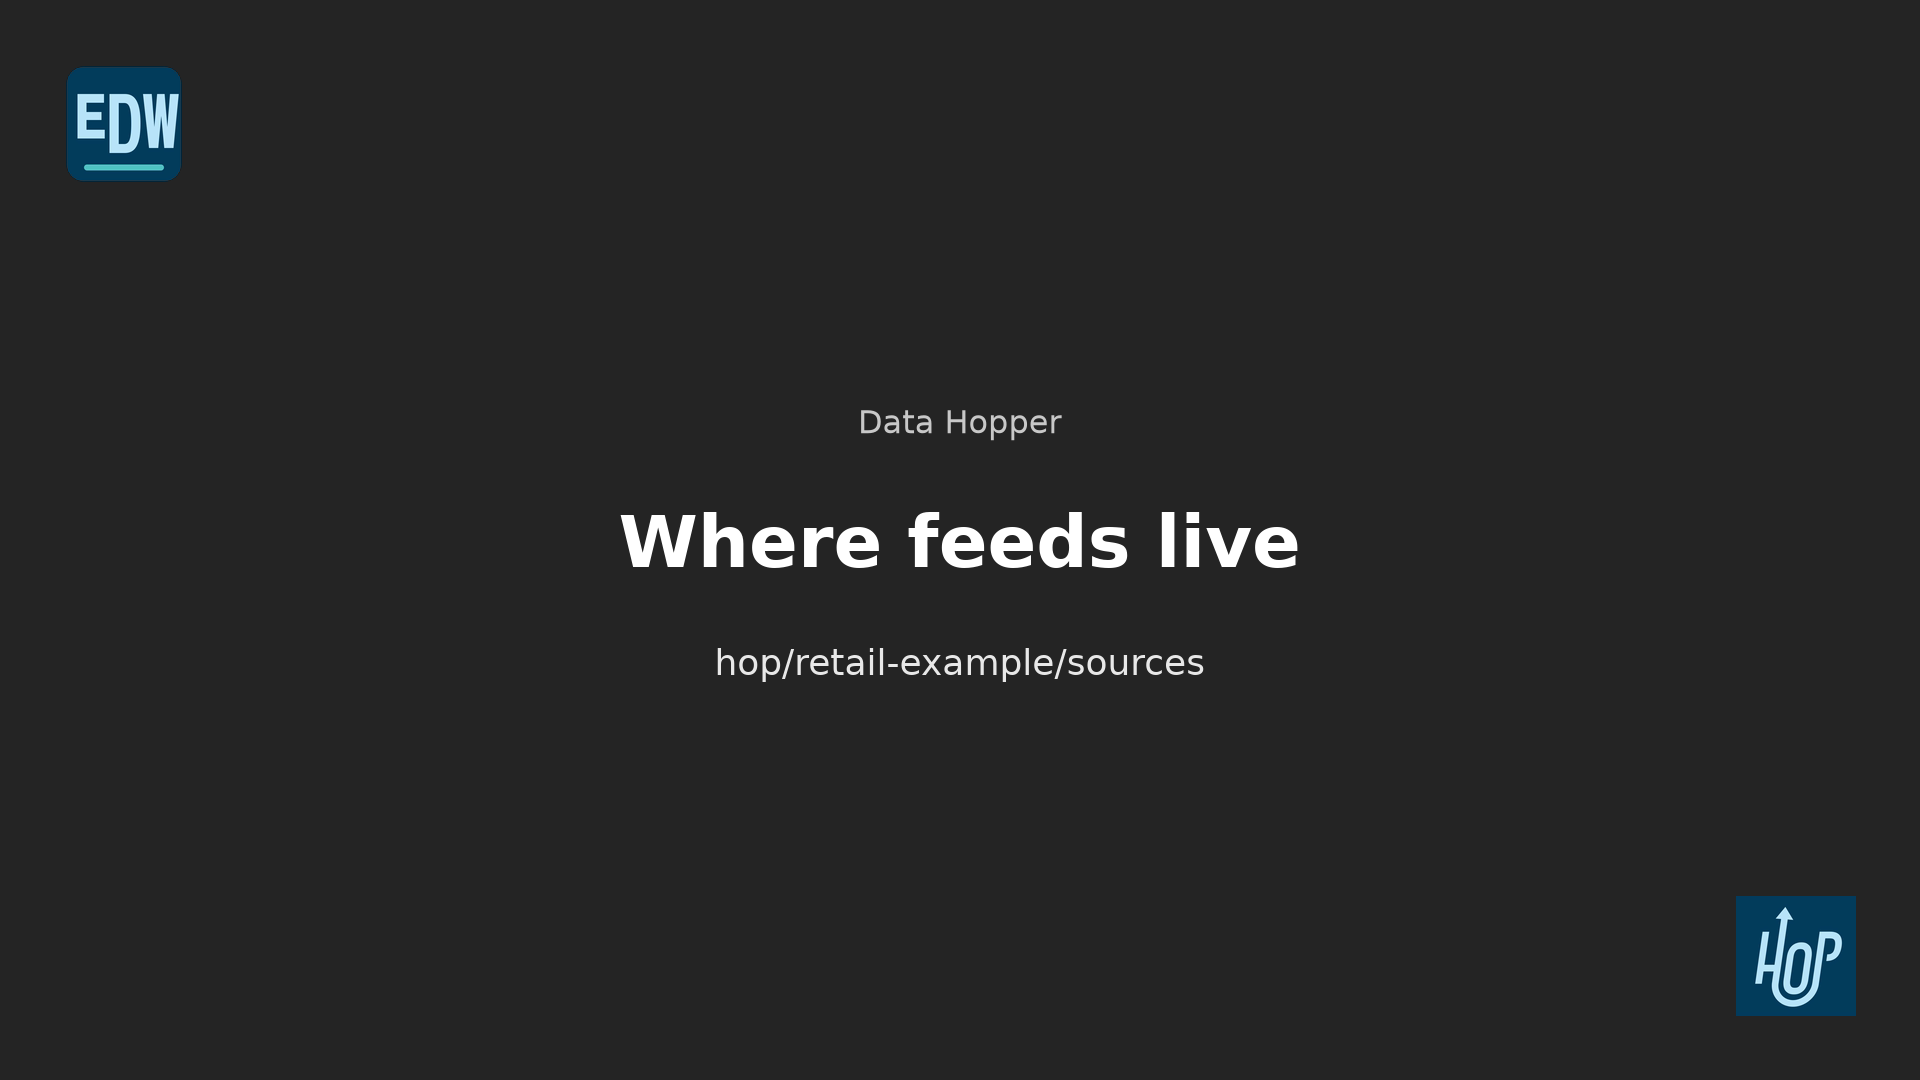
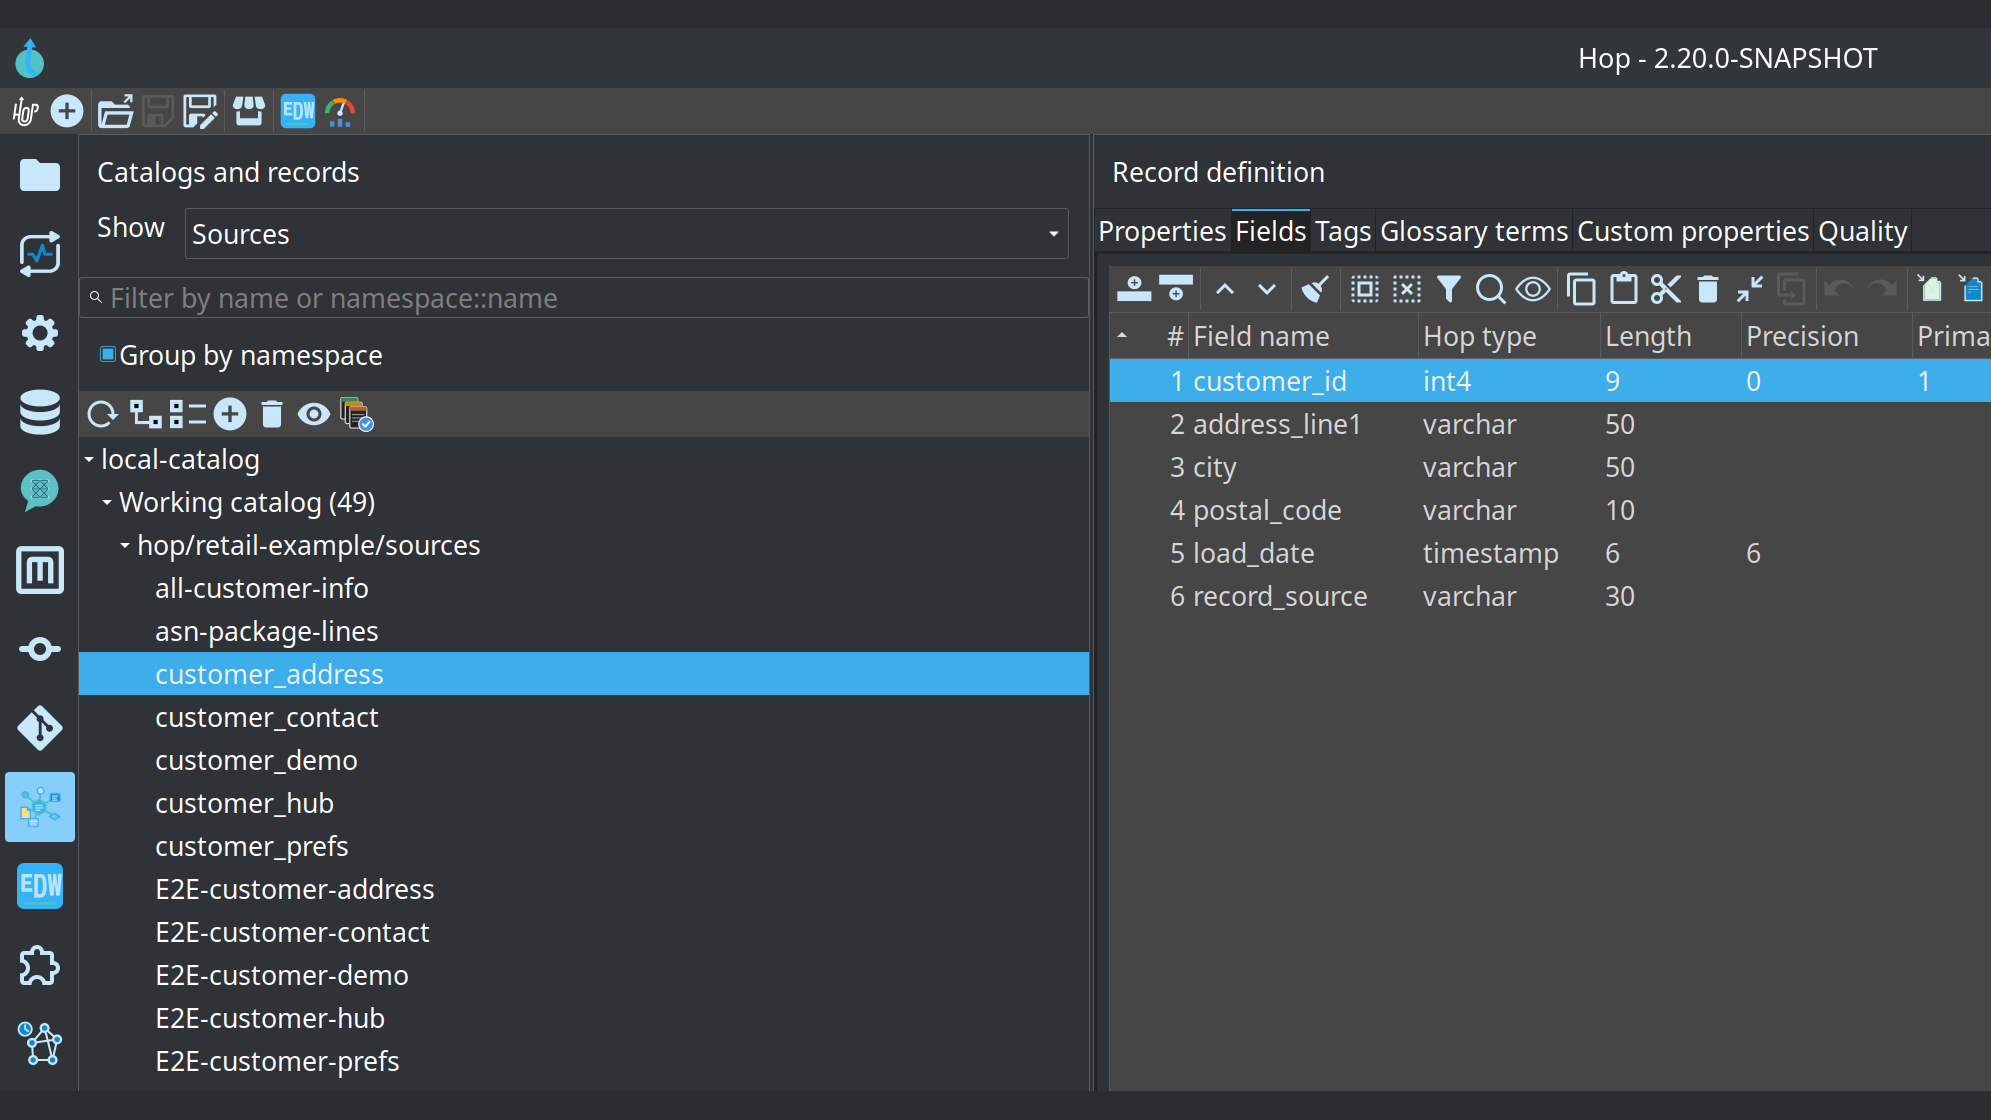
Issue #227 Add the sources episode translations.
Chinese, Spanish, Portuguese, French, German, and Italian narration and YouTube descriptions. The catalog list and the source-model canvas replace the title cards for those two chapters. The voice is Ara.

diff --git a/docs/video-series/SERIES.md b/docs/video-series/SERIES.md
@@ -30,7 +30,7 @@ The voice for this series is `ara`. The Apache Hop series uses `orion`. Set `voi
 | --- | --- | --- | --- |
 | `01-orientation` | 225 | What Data Hopper EDW is | English and six translations, voice `ara` |
 | `02-installation` | 226 | Installation and configuration | English and six translations, voice `ara` |
-| `03-sources` | 227 | Sources | English script, voice `ara`. Translations after the cut is heard |
+| `03-sources` | 227 | Sources | English and six translations, voice `ara` |
 | `04-source-models` | 228 | Source models | Not started |
 | `05-data-vault` | 229 | Building a Data Vault | Not started |
 | `06-resource-definition-group` | 230 | The resource definition group | Not started |
